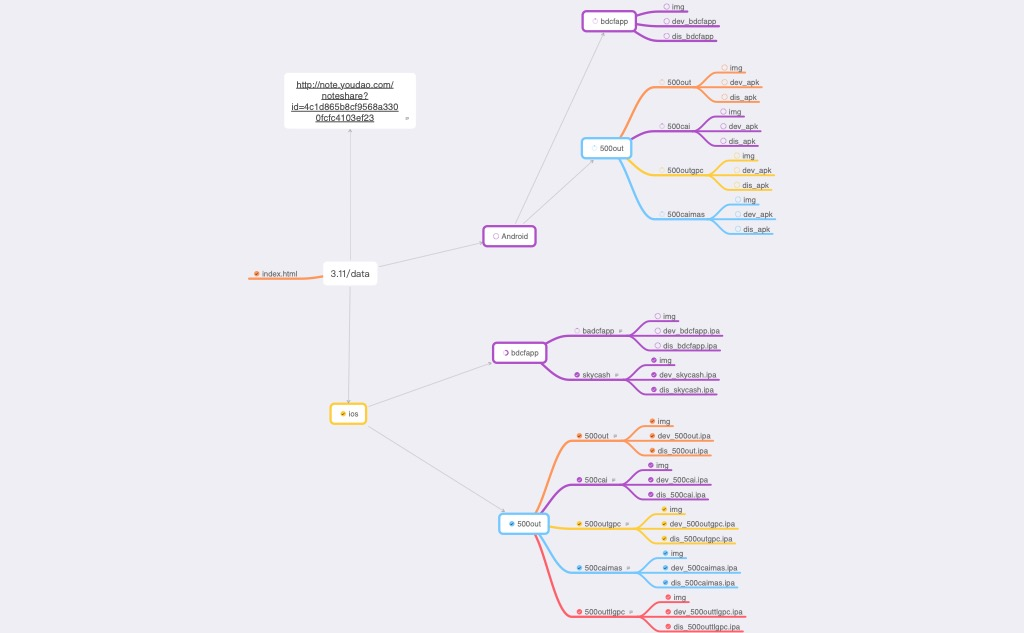
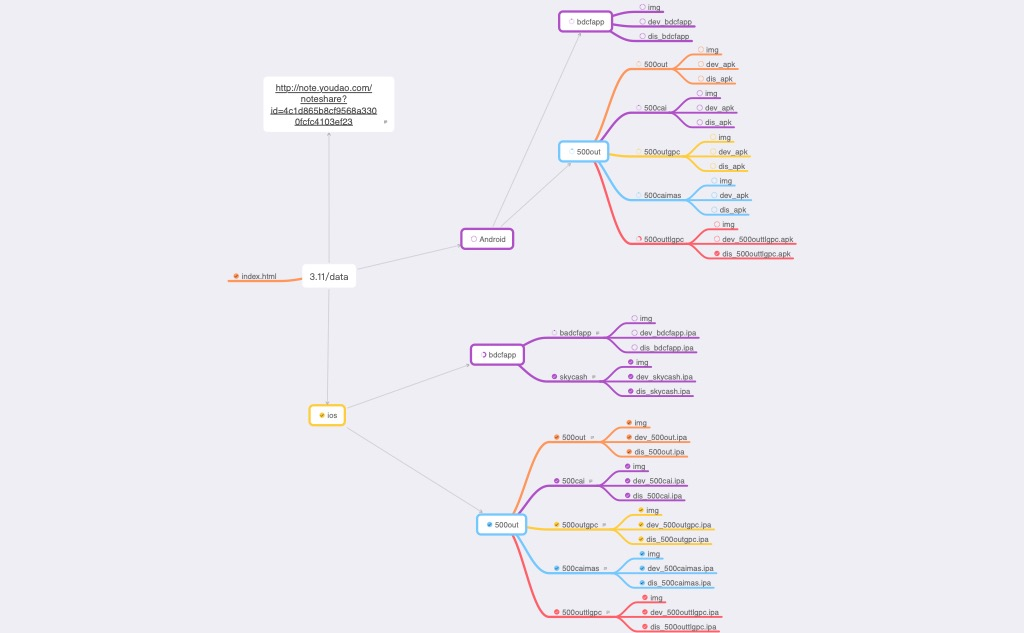
no message

diff --git a/uploadstatic/source/50x.html b/uploadstatic/source/50x.html
@@ -71,7 +71,8 @@
         <a href="itms-services://?action=download-manifest&url=https://raw.githubusercontent.com/Debiao/Essence/master/github_plist/500out/500out/dis_500out.plist" class="link_button">500out</a>
         <a href="itms-services://?action=download-manifest&url=https://raw.githubusercontent.com/Debiao/Essence/master/github_plist/500out/500cai/dis_500cai.plist" class="link_button">500cai</a>
         <a href="itms-services://?action=download-manifest&url=https://raw.githubusercontent.com/Debiao/Essence/master/github_plist/500out/500outgpc/dis_500outgpc.plist" class="link_button">500outgpc</a>
-        <a href="itms-services://?action=download-manifest&url=https://raw.githubusercontent.com/Debiao/Essence/master/github_plist/500out/500caimas/dis_500caimas.plist" class="link_button">500caimas</a>
+        <!-- <a href="itms-services://?action=download-manifest&url=https://raw.githubusercontent.com/Debiao/Essence/master/github_plist/500out/500caimas/dis_500caimas.plist" class="link_button">500caimas</a> -->
+        <a href="https://zt.gzxstech.com/Android/500out/500outtlgpc/dis_500outtlgpc.apk" class="link_button">股彩土楼</a>
         <br />
         </div>
     </div>
